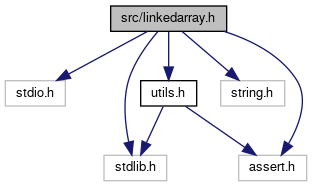
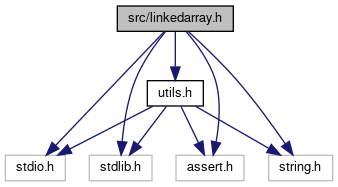
deploy: 1c9bf53f3e8e1fbb39b1cbbcf25a33abfc14eac7

diff --git a/utils_8h_source.html b/utils_8h_source.html
@@ -75,51 +75,53 @@ $(function() {
 <div class="line"><a name="l00013"></a><span class="lineno">   13</span>&#160; </div>
 <div class="line"><a name="l00014"></a><span class="lineno">   14</span>&#160;<span class="preprocessor">#include &lt;assert.h&gt;</span></div>
 <div class="line"><a name="l00015"></a><span class="lineno">   15</span>&#160;<span class="preprocessor">#include &lt;stdlib.h&gt;</span></div>
-<div class="line"><a name="l00016"></a><span class="lineno">   16</span>&#160; </div>
-<div class="line"><a name="l00017"></a><span class="lineno"><a class="line" href="structMinMax.html">   17</a></span>&#160;<span class="keyword">typedef</span> <span class="keyword">struct </span>{</div>
-<div class="line"><a name="l00018"></a><span class="lineno">   18</span>&#160;    <span class="keywordtype">int</span> min;</div>
-<div class="line"><a name="l00019"></a><span class="lineno">   19</span>&#160;    <span class="keywordtype">int</span> max;</div>
-<div class="line"><a name="l00020"></a><span class="lineno">   20</span>&#160;} <a class="code" href="structMinMax.html">MinMax</a>;</div>
-<div class="line"><a name="l00021"></a><span class="lineno">   21</span>&#160; </div>
-<div class="line"><a name="l00023"></a><span class="lineno">   23</span>&#160;<span class="keywordtype">void</span> <a class="code" href="utils_8h.html#a7f9501e3da8bed7be1eed5abe1b2c035">quicksort</a>(<span class="keywordtype">int</span> arr[], <span class="keywordtype">int</span> left, <span class="keywordtype">int</span> right);</div>
-<div class="line"><a name="l00024"></a><span class="lineno">   24</span>&#160; </div>
-<div class="line"><a name="l00026"></a><span class="lineno">   26</span>&#160;<span class="keywordtype">int</span> <a class="code" href="utils_8h.html#a63802919fc588a396c2037346d2ea072">partition</a>(<span class="keywordtype">int</span> number[], <span class="keywordtype">int</span> left, <span class="keywordtype">int</span> right);</div>
-<div class="line"><a name="l00027"></a><span class="lineno">   27</span>&#160; </div>
-<div class="line"><a name="l00029"></a><span class="lineno">   29</span>&#160;<span class="keywordtype">void</span> <a class="code" href="utils_8h.html#acd3415eef442ced2b5e064f95f04b624">swap</a>(<span class="keywordtype">int</span>* x, <span class="keywordtype">int</span>* y);</div>
-<div class="line"><a name="l00030"></a><span class="lineno">   30</span>&#160; </div>
-<div class="line"><a name="l00040"></a><span class="lineno">   40</span>&#160;<span class="keywordtype">int</span> <a class="code" href="utils_8h.html#aea0b7eaa2eccbab7c7a02af30f789fff">insert_arr</a>(<span class="keywordtype">int</span> arr[], <span class="keywordtype">int</span> i_, <span class="keywordtype">int</span> x, <span class="keywordtype">int</span> length);</div>
-<div class="line"><a name="l00041"></a><span class="lineno">   41</span>&#160; </div>
-<div class="line"><a name="l00043"></a><span class="lineno">   43</span>&#160;<span class="keywordtype">void</span> <a class="code" href="utils_8h.html#aaa4f0ee49fe00816904a50365b89a7b5">append_arr</a>(<span class="keywordtype">int</span> arr[], <span class="keywordtype">int</span> x, <span class="keywordtype">int</span> length);</div>
-<div class="line"><a name="l00045"></a><span class="lineno">   45</span>&#160;<span class="keywordtype">void</span> <a class="code" href="utils_8h.html#a6062d344abd994c1d5f9735511f78112">remove_arr</a>(<span class="keywordtype">int</span> arr[], <span class="keywordtype">int</span> i, <span class="keywordtype">int</span> length);</div>
-<div class="line"><a name="l00047"></a><span class="lineno">   47</span>&#160;<span class="keywordtype">int</span> <a class="code" href="utils_8h.html#a40ee04a45135984b0f1981d51b1688b6">reverse_arr</a>(<span class="keywordtype">int</span> arr[], <span class="keywordtype">int</span> str, <span class="keywordtype">int</span> end);</div>
-<div class="line"><a name="l00051"></a><span class="lineno">   51</span>&#160;<span class="keywordtype">int</span> <a class="code" href="utils_8h.html#aa26582e44b939cc0f7f9b1e3bec5de74">compare_array</a>(<span class="keywordtype">int</span> A[], <span class="keywordtype">int</span> B[], <span class="keywordtype">int</span> length);</div>
-<div class="line"><a name="l00052"></a><span class="lineno">   52</span>&#160; </div>
-<div class="line"><a name="l00053"></a><span class="lineno">   53</span>&#160; </div>
-<div class="line"><a name="l00063"></a><span class="lineno">   63</span>&#160;<span class="keywordtype">int</span> <a class="code" href="utils_8h.html#af2eeb464f878d97ae244a20a2ecdd415">BinarySearch_MinBigger</a>(<span class="keywordtype">int</span>* arr, <span class="keywordtype">int</span> length, <span class="keywordtype">int</span> key);</div>
-<div class="line"><a name="l00064"></a><span class="lineno">   64</span>&#160; </div>
-<div class="line"><a name="l00070"></a><span class="lineno">   70</span>&#160;<span class="keywordtype">int</span> <a class="code" href="utils_8h.html#a53905e2decba41a7198d38133359544c">BinarySearch_MaxSmaller</a>(<span class="keywordtype">int</span>* arrSorted, <span class="keywordtype">int</span> length, <span class="keywordtype">int</span> key);</div>
-<div class="line"><a name="l00071"></a><span class="lineno">   71</span>&#160; </div>
-<div class="line"><a name="l00080"></a><span class="lineno">   80</span>&#160;<span class="keywordtype">int</span> <a class="code" href="utils_8h.html#ab584f14895022a0a7734b6ad61456bcf">NumItemSmaller_Sorted</a>(<span class="keywordtype">int</span>* arrSorted, <span class="keywordtype">int</span> length, <span class="keywordtype">int</span> key);</div>
-<div class="line"><a name="l00081"></a><span class="lineno">   81</span>&#160; </div>
-<div class="line"><a name="l00092"></a><span class="lineno">   92</span>&#160;<span class="keywordtype">int</span> <a class="code" href="utils_8h.html#acfa4abe34baf1ebf7a10cb4614ea3b19">NumItemSmaller_Screen</a>(<span class="keywordtype">int</span>* arr, <span class="keywordtype">int</span> str, <span class="keywordtype">int</span> end, <span class="keywordtype">int</span> key);</div>
-<div class="line"><a name="l00093"></a><span class="lineno">   93</span>&#160; </div>
-<div class="line"><a name="l00095"></a><span class="lineno">   95</span>&#160;<a class="code" href="structMinMax.html">MinMax</a> <a class="code" href="utils_8h.html#a1c86995f8159017fe081a0c3f6948227">findMinMax</a>(<span class="keywordtype">int</span>* arr, <span class="keywordtype">int</span> str, <span class="keywordtype">int</span> end);</div>
-<div class="line"><a name="l00096"></a><span class="lineno">   96</span>&#160;<span class="keywordtype">int</span> <a class="code" href="utils_8h.html#af3ded9db3e5041e65961739dad69bca7">update_MinMax</a>(<a class="code" href="structMinMax.html">MinMax</a>* dst, <span class="keywordtype">int</span> min, <span class="keywordtype">int</span> max);</div>
-<div class="line"><a name="l00097"></a><span class="lineno">   97</span>&#160; </div>
-<div class="line"><a name="l00098"></a><span class="lineno">   98</span>&#160;<span class="comment">/*TESTING*/</span></div>
-<div class="line"><a name="l00099"></a><span class="lineno"><a class="line" href="structarray.html">   99</a></span>&#160;<span class="keyword">typedef</span> <span class="keyword">struct </span>{</div>
-<div class="line"><a name="l00100"></a><span class="lineno">  100</span>&#160;    <span class="keywordtype">int</span>* arr;</div>
-<div class="line"><a name="l00101"></a><span class="lineno">  101</span>&#160;    <span class="keywordtype">int</span> len;</div>
-<div class="line"><a name="l00102"></a><span class="lineno">  102</span>&#160;} <a class="code" href="structarray.html">array</a>;</div>
-<div class="line"><a name="l00103"></a><span class="lineno">  103</span>&#160;<a class="code" href="structarray.html">array</a> init_array();</div>
-<div class="line"><a name="l00104"></a><span class="lineno">  104</span>&#160;<span class="keywordtype">int</span> insert_array(<a class="code" href="structarray.html">array</a>*, <span class="keywordtype">int</span> i, <span class="keywordtype">int</span> x);</div>
-<div class="line"><a name="l00105"></a><span class="lineno">  105</span>&#160;<span class="keywordtype">int</span> delete_array(<a class="code" href="structarray.html">array</a>*, <span class="keywordtype">int</span> i);</div>
-<div class="line"><a name="l00106"></a><span class="lineno">  106</span>&#160;<span class="keywordtype">int</span> reverse_array(<a class="code" href="structarray.html">array</a>*, <span class="keywordtype">int</span> l, <span class="keywordtype">int</span> r);</div>
-<div class="line"><a name="l00107"></a><span class="lineno">  107</span>&#160; </div>
-<div class="line"><a name="l00108"></a><span class="lineno">  108</span>&#160;<span class="preprocessor">#endif</span></div>
-<div class="ttc" id="astructMinMax_html"><div class="ttname"><a href="structMinMax.html">MinMax</a></div><div class="ttdef"><b>Definition:</b> utils.h:17</div></div>
-<div class="ttc" id="astructarray_html"><div class="ttname"><a href="structarray.html">array</a></div><div class="ttdef"><b>Definition:</b> utils.h:99</div></div>
-<div class="ttc" id="autils_8h_html_a1c86995f8159017fe081a0c3f6948227"><div class="ttname"><a href="utils_8h.html#a1c86995f8159017fe081a0c3f6948227">findMinMax</a></div><div class="ttdeci">MinMax findMinMax(int *arr, int str, int end)</div><div class="ttdef"><b>Definition:</b> utils.c:146</div></div>
+<div class="line"><a name="l00016"></a><span class="lineno">   16</span>&#160;<span class="preprocessor">#include &lt;stdio.h&gt;</span></div>
+<div class="line"><a name="l00017"></a><span class="lineno">   17</span>&#160;<span class="preprocessor">#include &lt;string.h&gt;</span></div>
+<div class="line"><a name="l00018"></a><span class="lineno">   18</span>&#160; </div>
+<div class="line"><a name="l00019"></a><span class="lineno"><a class="line" href="structMinMax.html">   19</a></span>&#160;<span class="keyword">typedef</span> <span class="keyword">struct </span>{</div>
+<div class="line"><a name="l00020"></a><span class="lineno">   20</span>&#160;    <span class="keywordtype">int</span> min;</div>
+<div class="line"><a name="l00021"></a><span class="lineno">   21</span>&#160;    <span class="keywordtype">int</span> max;</div>
+<div class="line"><a name="l00022"></a><span class="lineno">   22</span>&#160;} <a class="code" href="structMinMax.html">MinMax</a>;</div>
+<div class="line"><a name="l00023"></a><span class="lineno">   23</span>&#160; </div>
+<div class="line"><a name="l00025"></a><span class="lineno">   25</span>&#160;<span class="keywordtype">void</span> <a class="code" href="utils_8h.html#a7f9501e3da8bed7be1eed5abe1b2c035">quicksort</a>(<span class="keywordtype">int</span> arr[], <span class="keywordtype">int</span> left, <span class="keywordtype">int</span> right);</div>
+<div class="line"><a name="l00026"></a><span class="lineno">   26</span>&#160; </div>
+<div class="line"><a name="l00028"></a><span class="lineno">   28</span>&#160;<span class="keywordtype">int</span> <a class="code" href="utils_8h.html#a63802919fc588a396c2037346d2ea072">partition</a>(<span class="keywordtype">int</span> number[], <span class="keywordtype">int</span> left, <span class="keywordtype">int</span> right);</div>
+<div class="line"><a name="l00029"></a><span class="lineno">   29</span>&#160; </div>
+<div class="line"><a name="l00031"></a><span class="lineno">   31</span>&#160;<span class="keywordtype">void</span> <a class="code" href="utils_8h.html#acd3415eef442ced2b5e064f95f04b624">swap</a>(<span class="keywordtype">int</span>* x, <span class="keywordtype">int</span>* y);</div>
+<div class="line"><a name="l00032"></a><span class="lineno">   32</span>&#160; </div>
+<div class="line"><a name="l00042"></a><span class="lineno">   42</span>&#160;<span class="keywordtype">int</span> <a class="code" href="utils_8h.html#aea0b7eaa2eccbab7c7a02af30f789fff">insert_arr</a>(<span class="keywordtype">int</span> arr[], <span class="keywordtype">int</span> i_, <span class="keywordtype">int</span> x, <span class="keywordtype">int</span> length);</div>
+<div class="line"><a name="l00043"></a><span class="lineno">   43</span>&#160; </div>
+<div class="line"><a name="l00045"></a><span class="lineno">   45</span>&#160;<span class="keywordtype">void</span> <a class="code" href="utils_8h.html#aaa4f0ee49fe00816904a50365b89a7b5">append_arr</a>(<span class="keywordtype">int</span> arr[], <span class="keywordtype">int</span> x, <span class="keywordtype">int</span> length);</div>
+<div class="line"><a name="l00047"></a><span class="lineno">   47</span>&#160;<span class="keywordtype">void</span> <a class="code" href="utils_8h.html#a6062d344abd994c1d5f9735511f78112">remove_arr</a>(<span class="keywordtype">int</span> arr[], <span class="keywordtype">int</span> i, <span class="keywordtype">int</span> length);</div>
+<div class="line"><a name="l00049"></a><span class="lineno">   49</span>&#160;<span class="keywordtype">int</span> <a class="code" href="utils_8h.html#a40ee04a45135984b0f1981d51b1688b6">reverse_arr</a>(<span class="keywordtype">int</span> arr[], <span class="keywordtype">int</span> str, <span class="keywordtype">int</span> end);</div>
+<div class="line"><a name="l00053"></a><span class="lineno">   53</span>&#160;<span class="keywordtype">int</span> <a class="code" href="utils_8h.html#aa26582e44b939cc0f7f9b1e3bec5de74">compare_array</a>(<span class="keywordtype">int</span> A[], <span class="keywordtype">int</span> B[], <span class="keywordtype">int</span> length);</div>
+<div class="line"><a name="l00054"></a><span class="lineno">   54</span>&#160; </div>
+<div class="line"><a name="l00055"></a><span class="lineno">   55</span>&#160; </div>
+<div class="line"><a name="l00065"></a><span class="lineno">   65</span>&#160;<span class="keywordtype">int</span> <a class="code" href="utils_8h.html#af2eeb464f878d97ae244a20a2ecdd415">BinarySearch_MinBigger</a>(<span class="keywordtype">int</span>* arr, <span class="keywordtype">int</span> length, <span class="keywordtype">int</span> key);</div>
+<div class="line"><a name="l00066"></a><span class="lineno">   66</span>&#160; </div>
+<div class="line"><a name="l00072"></a><span class="lineno">   72</span>&#160;<span class="keywordtype">int</span> <a class="code" href="utils_8h.html#a53905e2decba41a7198d38133359544c">BinarySearch_MaxSmaller</a>(<span class="keywordtype">int</span>* arrSorted, <span class="keywordtype">int</span> length, <span class="keywordtype">int</span> key);</div>
+<div class="line"><a name="l00073"></a><span class="lineno">   73</span>&#160; </div>
+<div class="line"><a name="l00082"></a><span class="lineno">   82</span>&#160;<span class="keywordtype">int</span> <a class="code" href="utils_8h.html#ab584f14895022a0a7734b6ad61456bcf">NumItemSmaller_Sorted</a>(<span class="keywordtype">int</span>* arrSorted, <span class="keywordtype">int</span> length, <span class="keywordtype">int</span> key);</div>
+<div class="line"><a name="l00083"></a><span class="lineno">   83</span>&#160; </div>
+<div class="line"><a name="l00094"></a><span class="lineno">   94</span>&#160;<span class="keywordtype">int</span> <a class="code" href="utils_8h.html#acfa4abe34baf1ebf7a10cb4614ea3b19">NumItemSmaller_Screen</a>(<span class="keywordtype">int</span>* arr, <span class="keywordtype">int</span> str, <span class="keywordtype">int</span> end, <span class="keywordtype">int</span> key);</div>
+<div class="line"><a name="l00095"></a><span class="lineno">   95</span>&#160; </div>
+<div class="line"><a name="l00097"></a><span class="lineno">   97</span>&#160;<a class="code" href="structMinMax.html">MinMax</a> <a class="code" href="utils_8h.html#a1c86995f8159017fe081a0c3f6948227">findMinMax</a>(<span class="keywordtype">int</span>* arr, <span class="keywordtype">int</span> str, <span class="keywordtype">int</span> end);</div>
+<div class="line"><a name="l00098"></a><span class="lineno">   98</span>&#160;<span class="keywordtype">int</span> <a class="code" href="utils_8h.html#af3ded9db3e5041e65961739dad69bca7">update_MinMax</a>(<a class="code" href="structMinMax.html">MinMax</a>* dst, <span class="keywordtype">int</span> min, <span class="keywordtype">int</span> max);</div>
+<div class="line"><a name="l00099"></a><span class="lineno">   99</span>&#160; </div>
+<div class="line"><a name="l00100"></a><span class="lineno">  100</span>&#160;<span class="comment">/*TESTING*/</span></div>
+<div class="line"><a name="l00101"></a><span class="lineno"><a class="line" href="structarray.html">  101</a></span>&#160;<span class="keyword">typedef</span> <span class="keyword">struct </span>{</div>
+<div class="line"><a name="l00102"></a><span class="lineno">  102</span>&#160;    <span class="keywordtype">int</span>* arr;</div>
+<div class="line"><a name="l00103"></a><span class="lineno">  103</span>&#160;    <span class="keywordtype">int</span> len;</div>
+<div class="line"><a name="l00104"></a><span class="lineno">  104</span>&#160;} <a class="code" href="structarray.html">array</a>;</div>
+<div class="line"><a name="l00105"></a><span class="lineno">  105</span>&#160;<a class="code" href="structarray.html">array</a> init_array();</div>
+<div class="line"><a name="l00106"></a><span class="lineno">  106</span>&#160;<span class="keywordtype">int</span> insert_array(<a class="code" href="structarray.html">array</a>*, <span class="keywordtype">int</span> i, <span class="keywordtype">int</span> x);</div>
+<div class="line"><a name="l00107"></a><span class="lineno">  107</span>&#160;<span class="keywordtype">int</span> delete_array(<a class="code" href="structarray.html">array</a>*, <span class="keywordtype">int</span> i);</div>
+<div class="line"><a name="l00108"></a><span class="lineno">  108</span>&#160;<span class="keywordtype">int</span> reverse_array(<a class="code" href="structarray.html">array</a>*, <span class="keywordtype">int</span> l, <span class="keywordtype">int</span> r);</div>
+<div class="line"><a name="l00109"></a><span class="lineno">  109</span>&#160;<span class="keywordtype">int</span> query_array(<a class="code" href="structarray.html">array</a>*, <span class="keywordtype">int</span> l, <span class="keywordtype">int</span> r, <span class="keywordtype">int</span> k);</div>
+<div class="line"><a name="l00110"></a><span class="lineno">  110</span>&#160;<span class="preprocessor">#endif</span></div>
+<div class="ttc" id="astructMinMax_html"><div class="ttname"><a href="structMinMax.html">MinMax</a></div><div class="ttdef"><b>Definition:</b> utils.h:19</div></div>
+<div class="ttc" id="astructarray_html"><div class="ttname"><a href="structarray.html">array</a></div><div class="ttdef"><b>Definition:</b> utils.h:101</div></div>
+<div class="ttc" id="autils_8h_html_a1c86995f8159017fe081a0c3f6948227"><div class="ttname"><a href="utils_8h.html#a1c86995f8159017fe081a0c3f6948227">findMinMax</a></div><div class="ttdeci">MinMax findMinMax(int *arr, int str, int end)</div><div class="ttdef"><b>Definition:</b> utils.c:149</div></div>
 <div class="ttc" id="autils_8h_html_a40ee04a45135984b0f1981d51b1688b6"><div class="ttname"><a href="utils_8h.html#a40ee04a45135984b0f1981d51b1688b6">reverse_arr</a></div><div class="ttdeci">int reverse_arr(int arr[], int str, int end)</div><div class="ttdef"><b>Definition:</b> utils.c:57</div></div>
 <div class="ttc" id="autils_8h_html_a53905e2decba41a7198d38133359544c"><div class="ttname"><a href="utils_8h.html#a53905e2decba41a7198d38133359544c">BinarySearch_MaxSmaller</a></div><div class="ttdeci">int BinarySearch_MaxSmaller(int *arrSorted, int length, int key)</div><div class="ttdoc">Find the maximum location i which fullfills arr[i] &lt; key.</div><div class="ttdef"><b>Definition:</b> utils.c:108</div></div>
 <div class="ttc" id="autils_8h_html_a6062d344abd994c1d5f9735511f78112"><div class="ttname"><a href="utils_8h.html#a6062d344abd994c1d5f9735511f78112">remove_arr</a></div><div class="ttdeci">void remove_arr(int arr[], int i, int length)</div><div class="ttdef"><b>Definition:</b> utils.c:51</div></div>
@@ -132,7 +134,7 @@ $(function() {
 <div class="ttc" id="autils_8h_html_acfa4abe34baf1ebf7a10cb4614ea3b19"><div class="ttname"><a href="utils_8h.html#acfa4abe34baf1ebf7a10cb4614ea3b19">NumItemSmaller_Screen</a></div><div class="ttdeci">int NumItemSmaller_Screen(int *arr, int str, int end, int key)</div><div class="ttdoc">Measure how many item is smaller than key in an array.</div><div class="ttdef"><b>Definition:</b> utils.c:135</div></div>
 <div class="ttc" id="autils_8h_html_aea0b7eaa2eccbab7c7a02af30f789fff"><div class="ttname"><a href="utils_8h.html#aea0b7eaa2eccbab7c7a02af30f789fff">insert_arr</a></div><div class="ttdeci">int insert_arr(int arr[], int i_, int x, int length)</div><div class="ttdoc">Insert a value in an array with a iven length.</div><div class="ttdef"><b>Definition:</b> utils.c:33</div></div>
 <div class="ttc" id="autils_8h_html_af2eeb464f878d97ae244a20a2ecdd415"><div class="ttname"><a href="utils_8h.html#af2eeb464f878d97ae244a20a2ecdd415">BinarySearch_MinBigger</a></div><div class="ttdeci">int BinarySearch_MinBigger(int *arr, int length, int key)</div><div class="ttdoc">Find the minimum i which fullfills arr[i] &gt; key.</div><div class="ttdef"><b>Definition:</b> utils.c:86</div></div>
-<div class="ttc" id="autils_8h_html_af3ded9db3e5041e65961739dad69bca7"><div class="ttname"><a href="utils_8h.html#af3ded9db3e5041e65961739dad69bca7">update_MinMax</a></div><div class="ttdeci">int update_MinMax(MinMax *dst, int min, int max)</div><div class="ttdef"><b>Definition:</b> utils.c:171</div></div>
+<div class="ttc" id="autils_8h_html_af3ded9db3e5041e65961739dad69bca7"><div class="ttname"><a href="utils_8h.html#af3ded9db3e5041e65961739dad69bca7">update_MinMax</a></div><div class="ttdeci">int update_MinMax(MinMax *dst, int min, int max)</div><div class="ttdef"><b>Definition:</b> utils.c:174</div></div>
 </div><!-- fragment --></div><!-- contents -->
 <!-- start footer part -->
 <hr class="footer"/><address class="footer"><small>

diff --git a/utils_8h.html b/utils_8h.html
@@ -77,14 +77,18 @@ $(function() {
 <a href="#details">More...</a></p>
 <div class="textblock"><code>#include &lt;assert.h&gt;</code><br />
 <code>#include &lt;stdlib.h&gt;</code><br />
+<code>#include &lt;stdio.h&gt;</code><br />
+<code>#include &lt;string.h&gt;</code><br />
 </div><div class="textblock"><div class="dynheader">
 Include dependency graph for utils.h:</div>
 <div class="dyncontent">
 <div class="center"><img src="utils_8h__incl.png" border="0" usemap="#asrc_2utils_8h" alt=""/></div>
 <map name="asrc_2utils_8h" id="asrc_2utils_8h">
-<area shape="rect" title="General Utilities for C language." alt="" coords="44,5,123,32"/>
+<area shape="rect" title="General Utilities for C language." alt="" coords="132,5,211,32"/>
 <area shape="rect" title=" " alt="" coords="5,80,73,107"/>
 <area shape="rect" title=" " alt="" coords="97,80,160,107"/>
+<area shape="rect" title=" " alt="" coords="184,80,244,107"/>
+<area shape="rect" title=" " alt="" coords="269,80,333,107"/>
 </map>
 </div>
 </div><div class="textblock"><div class="dynheader">
@@ -157,6 +161,9 @@ int&#160;</td><td class="memItemRight" valign="bottom"><b>delete_array</b> (<a c
 <tr class="memitem:a082a0b82cffbe5c993827f4562a0cb10"><td class="memItemLeft" align="right" valign="top"><a id="a082a0b82cffbe5c993827f4562a0cb10"></a>
 int&#160;</td><td class="memItemRight" valign="bottom"><b>reverse_array</b> (<a class="el" href="structarray.html">array</a> *, int l, int r)</td></tr>
 <tr class="separator:a082a0b82cffbe5c993827f4562a0cb10"><td class="memSeparator" colspan="2">&#160;</td></tr>
+<tr class="memitem:a8c0f21511277113e2faf05ce0c67e4c3"><td class="memItemLeft" align="right" valign="top"><a id="a8c0f21511277113e2faf05ce0c67e4c3"></a>
+int&#160;</td><td class="memItemRight" valign="bottom"><b>query_array</b> (<a class="el" href="structarray.html">array</a> *, int l, int r, int k)</td></tr>
+<tr class="separator:a8c0f21511277113e2faf05ce0c67e4c3"><td class="memSeparator" colspan="2">&#160;</td></tr>
 </table>
 <a name="details" id="details"></a><h2 class="groupheader">Detailed Description</h2>
 <div class="textblock"><p>General Utilities for C language. </p>

diff --git a/main_8c.html b/main_8c.html
@@ -83,14 +83,14 @@ Include dependency graph for main.c:</div>
 <div class="dyncontent">
 <div class="center"><img src="main_8c__incl.png" border="0" usemap="#asrc_2main_8c" alt=""/></div>
 <map name="asrc_2main_8c" id="asrc_2main_8c">
-<area shape="rect" title="DSA2021 HW1 P6: K least member. This package is majorly done by myself. The algorithm part is inspire..." alt="" coords="30,5,113,32"/>
-<area shape="rect" title=" " alt="" coords="34,229,94,256"/>
-<area shape="rect" title=" " alt="" coords="100,304,163,331"/>
-<area shape="rect" href="linkedarray_8h.html" title="Unrolled linked list for finding K&#45;least element." alt="" coords="135,155,230,181"/>
-<area shape="rect" href="interfaceDebug_8h_source.html" title=" " alt="" coords="190,80,308,107"/>
-<area shape="rect" title=" " alt="" coords="214,304,282,331"/>
-<area shape="rect" title=" " alt="" coords="300,229,364,256"/>
-<area shape="rect" href="utils_8h.html" title="General Utilities for C language." alt="" coords="220,229,276,256"/>
+<area shape="rect" title="DSA2021 HW1 P6: K least member. This package is majorly done by myself. The algorithm part is inspire..." alt="" coords="162,5,245,32"/>
+<area shape="rect" title=" " alt="" coords="5,304,65,331"/>
+<area shape="rect" title=" " alt="" coords="363,304,425,331"/>
+<area shape="rect" href="linkedarray_8h.html" title="Unrolled linked list for finding K&#45;least element." alt="" coords="200,155,295,181"/>
+<area shape="rect" href="interfaceDebug_8h_source.html" title=" " alt="" coords="96,80,215,107"/>
+<area shape="rect" title=" " alt="" coords="259,304,327,331"/>
+<area shape="rect" title=" " alt="" coords="130,304,194,331"/>
+<area shape="rect" href="utils_8h.html" title="General Utilities for C language." alt="" coords="199,229,255,256"/>
 </map>
 </div>
 </div><table class="memberdecls">

diff --git a/linkedarray_8h_source.html b/linkedarray_8h_source.html
@@ -195,7 +195,7 @@ $(function() {
 <div class="ttc" id="alinkedarray_8h_html_ae09ebb3d01abd07009f724db79fc1a26"><div class="ttname"><a href="linkedarray_8h.html#ae09ebb3d01abd07009f724db79fc1a26">find_start_end_LA</a></div><div class="ttdeci">StrEndLoc find_start_end_LA(LnkArr *headlist, int str, int end)</div><div class="ttdef"><b>Definition:</b> linkedarray.c:446</div></div>
 <div class="ttc" id="alinkedarray_8h_html_ae507e388b4fc6fcd090b0bd0836e3c1f"><div class="ttname"><a href="linkedarray_8h.html#ae507e388b4fc6fcd090b0bd0836e3c1f">reverseInNodes</a></div><div class="ttdeci">int reverseInNodes(Loc nodeStr, Loc nodeEnd)</div><div class="ttdef"><b>Definition:</b> linkedarray.c:370</div></div>
 <div class="ttc" id="astructLoc_html"><div class="ttname"><a href="structLoc.html">Loc</a></div><div class="ttdoc">Position in linked array.</div><div class="ttdef"><b>Definition:</b> linkedarray.h:50</div></div>
-<div class="ttc" id="astructMinMax_html"><div class="ttname"><a href="structMinMax.html">MinMax</a></div><div class="ttdef"><b>Definition:</b> utils.h:17</div></div>
+<div class="ttc" id="astructMinMax_html"><div class="ttname"><a href="structMinMax.html">MinMax</a></div><div class="ttdef"><b>Definition:</b> utils.h:19</div></div>
 <div class="ttc" id="astructStrEndLoc_html"><div class="ttname"><a href="structStrEndLoc.html">StrEndLoc</a></div><div class="ttdef"><b>Definition:</b> linkedarray.h:59</div></div>
 <div class="ttc" id="astructnode_html"><div class="ttname"><a href="structnode.html">node</a></div><div class="ttdef"><b>Definition:</b> linkedarray.h:32</div></div>
 <div class="ttc" id="autils_8h_html"><div class="ttname"><a href="utils_8h.html">utils.h</a></div><div class="ttdoc">General Utilities for C language.</div></div>

diff --git a/test__linkedarray_8h.html b/test__linkedarray_8h.html
@@ -80,14 +80,14 @@ Include dependency graph for test_linkedarray.h:</div>
 <div class="dyncontent">
 <div class="center"><img src="test__linkedarray_8h__incl.png" border="0" usemap="#atest_2test__linkedarray_8h" alt=""/></div>
 <map name="atest_2test__linkedarray_8h" id="atest_2test__linkedarray_8h">
-<area shape="rect" title=" " alt="" coords="286,5,435,32"/>
-<area shape="rect" href="linkedarray_8h.html" title="Unrolled linked list for finding K&#45;least element." alt="" coords="143,80,237,107"/>
-<area shape="rect" title=" " alt="" coords="193,229,256,256"/>
-<area shape="rect" title=" " alt="" coords="399,80,456,107"/>
-<area shape="rect" title=" " alt="" coords="263,155,323,181"/>
-<area shape="rect" title=" " alt="" coords="5,229,73,256"/>
-<area shape="rect" title=" " alt="" coords="123,155,187,181"/>
-<area shape="rect" href="utils_8h.html" title="General Utilities for C language." alt="" coords="43,155,99,181"/>
+<area shape="rect" title=" " alt="" coords="79,5,229,32"/>
+<area shape="rect" href="linkedarray_8h.html" title="Unrolled linked list for finding K&#45;least element." alt="" coords="107,80,201,107"/>
+<area shape="rect" title=" " alt="" coords="5,229,68,256"/>
+<area shape="rect" title=" " alt="" coords="225,80,283,107"/>
+<area shape="rect" title=" " alt="" coords="273,229,333,256"/>
+<area shape="rect" title=" " alt="" coords="92,229,160,256"/>
+<area shape="rect" title=" " alt="" coords="185,229,249,256"/>
+<area shape="rect" href="utils_8h.html" title="General Utilities for C language." alt="" coords="159,155,215,181"/>
 </map>
 </div>
 </div>

diff --git a/linkedarray_8h.html b/linkedarray_8h.html
@@ -87,12 +87,12 @@ Include dependency graph for linkedarray.h:</div>
 <div class="dyncontent">
 <div class="center"><img src="linkedarray_8h__incl.png" border="0" usemap="#asrc_2linkedarray_8h" alt=""/></div>
 <map name="asrc_2linkedarray_8h" id="asrc_2linkedarray_8h">
-<area shape="rect" title="Unrolled linked list for finding K&#45;least element." alt="" coords="111,5,227,32"/>
-<area shape="rect" title=" " alt="" coords="5,80,65,107"/>
-<area shape="rect" title=" " alt="" coords="104,155,167,181"/>
-<area shape="rect" title=" " alt="" coords="239,155,307,181"/>
-<area shape="rect" title=" " alt="" coords="221,80,285,107"/>
-<area shape="rect" href="utils_8h.html" title="General Utilities for C language." alt="" coords="141,80,197,107"/>
+<area shape="rect" title="Unrolled linked list for finding K&#45;least element." alt="" coords="117,5,233,32"/>
+<area shape="rect" title=" " alt="" coords="5,155,65,181"/>
+<area shape="rect" title=" " alt="" coords="89,155,152,181"/>
+<area shape="rect" title=" " alt="" coords="176,155,244,181"/>
+<area shape="rect" title=" " alt="" coords="269,155,333,181"/>
+<area shape="rect" href="utils_8h.html" title="General Utilities for C language." alt="" coords="147,80,203,107"/>
 </map>
 </div>
 </div><div class="textblock"><div class="dynheader">

diff --git a/test__utils_8h.html b/test__utils_8h.html
@@ -81,11 +81,13 @@ Include dependency graph for test_utils.h:</div>
 <div class="dyncontent">
 <div class="center"><img src="test__utils_8h__incl.png" border="0" usemap="#atest_2test__utils_8h" alt=""/></div>
 <map name="atest_2test__utils_8h" id="atest_2test__utils_8h">
-<area shape="rect" title="Test utility functions." alt="" coords="31,5,142,32"/>
-<area shape="rect" title=" " alt="" coords="5,80,80,107"/>
-<area shape="rect" href="utils_8h.html" title="General Utilities for C language." alt="" coords="104,80,160,107"/>
-<area shape="rect" title=" " alt="" coords="53,155,121,181"/>
-<area shape="rect" title=" " alt="" coords="145,155,207,181"/>
+<area shape="rect" title="Test utility functions." alt="" coords="71,5,181,32"/>
+<area shape="rect" title=" " alt="" coords="45,80,119,107"/>
+<area shape="rect" href="utils_8h.html" title="General Utilities for C language." alt="" coords="143,80,199,107"/>
+<area shape="rect" title=" " alt="" coords="5,155,73,181"/>
+<area shape="rect" title=" " alt="" coords="97,155,160,181"/>
+<area shape="rect" title=" " alt="" coords="184,155,244,181"/>
+<area shape="rect" title=" " alt="" coords="269,155,333,181"/>
 </map>
 </div>
 </div>

diff --git a/interfaceDebug_8h_source.html b/interfaceDebug_8h_source.html
@@ -85,7 +85,7 @@ $(function() {
 <div class="line"><a name="l00014"></a><span class="lineno">   14</span>&#160; </div>
 <div class="line"><a name="l00015"></a><span class="lineno">   15</span>&#160;<span class="preprocessor">#endif</span></div>
 <div class="ttc" id="alinkedarray_8h_html"><div class="ttname"><a href="linkedarray_8h.html">linkedarray.h</a></div><div class="ttdoc">Unrolled linked list for finding K-least element.</div></div>
-<div class="ttc" id="astructarray_html"><div class="ttname"><a href="structarray.html">array</a></div><div class="ttdef"><b>Definition:</b> utils.h:99</div></div>
+<div class="ttc" id="astructarray_html"><div class="ttname"><a href="structarray.html">array</a></div><div class="ttdef"><b>Definition:</b> utils.h:101</div></div>
 <div class="ttc" id="astructnode_html"><div class="ttname"><a href="structnode.html">node</a></div><div class="ttdef"><b>Definition:</b> linkedarray.h:32</div></div>
 <div class="ttc" id="autils_8h_html"><div class="ttname"><a href="utils_8h.html">utils.h</a></div><div class="ttdoc">General Utilities for C language.</div></div>
 </div><!-- fragment --></div><!-- contents -->
